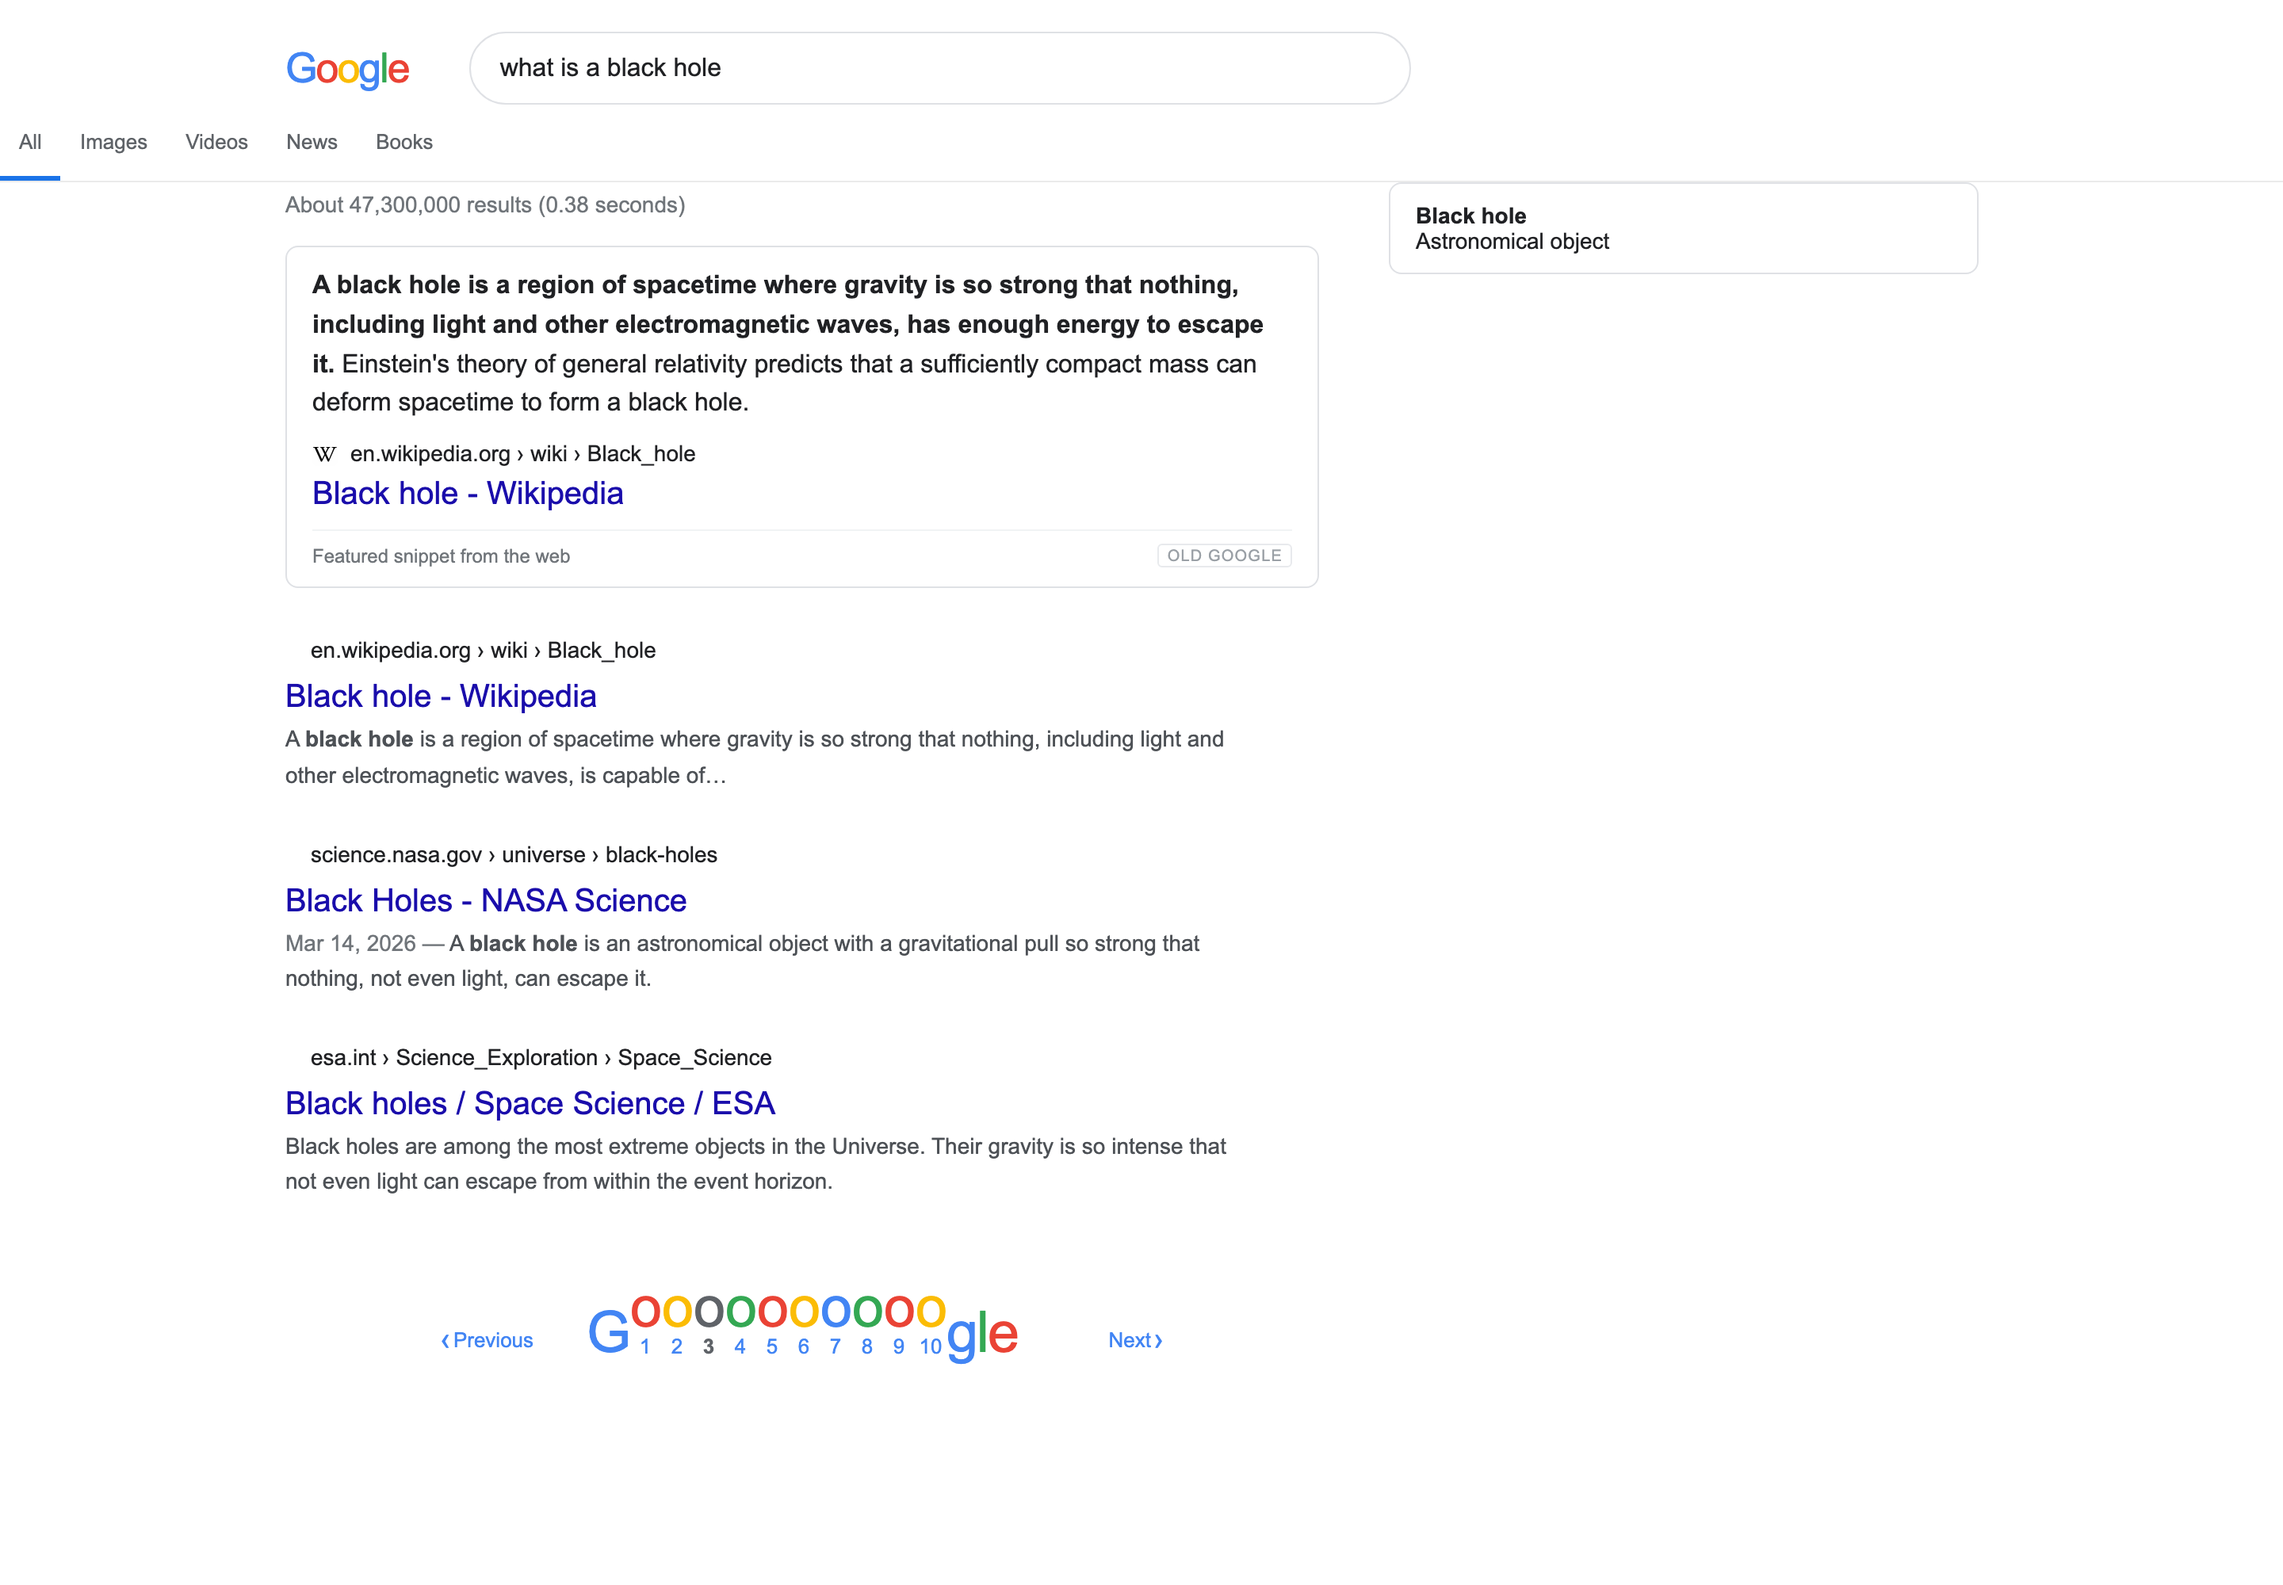
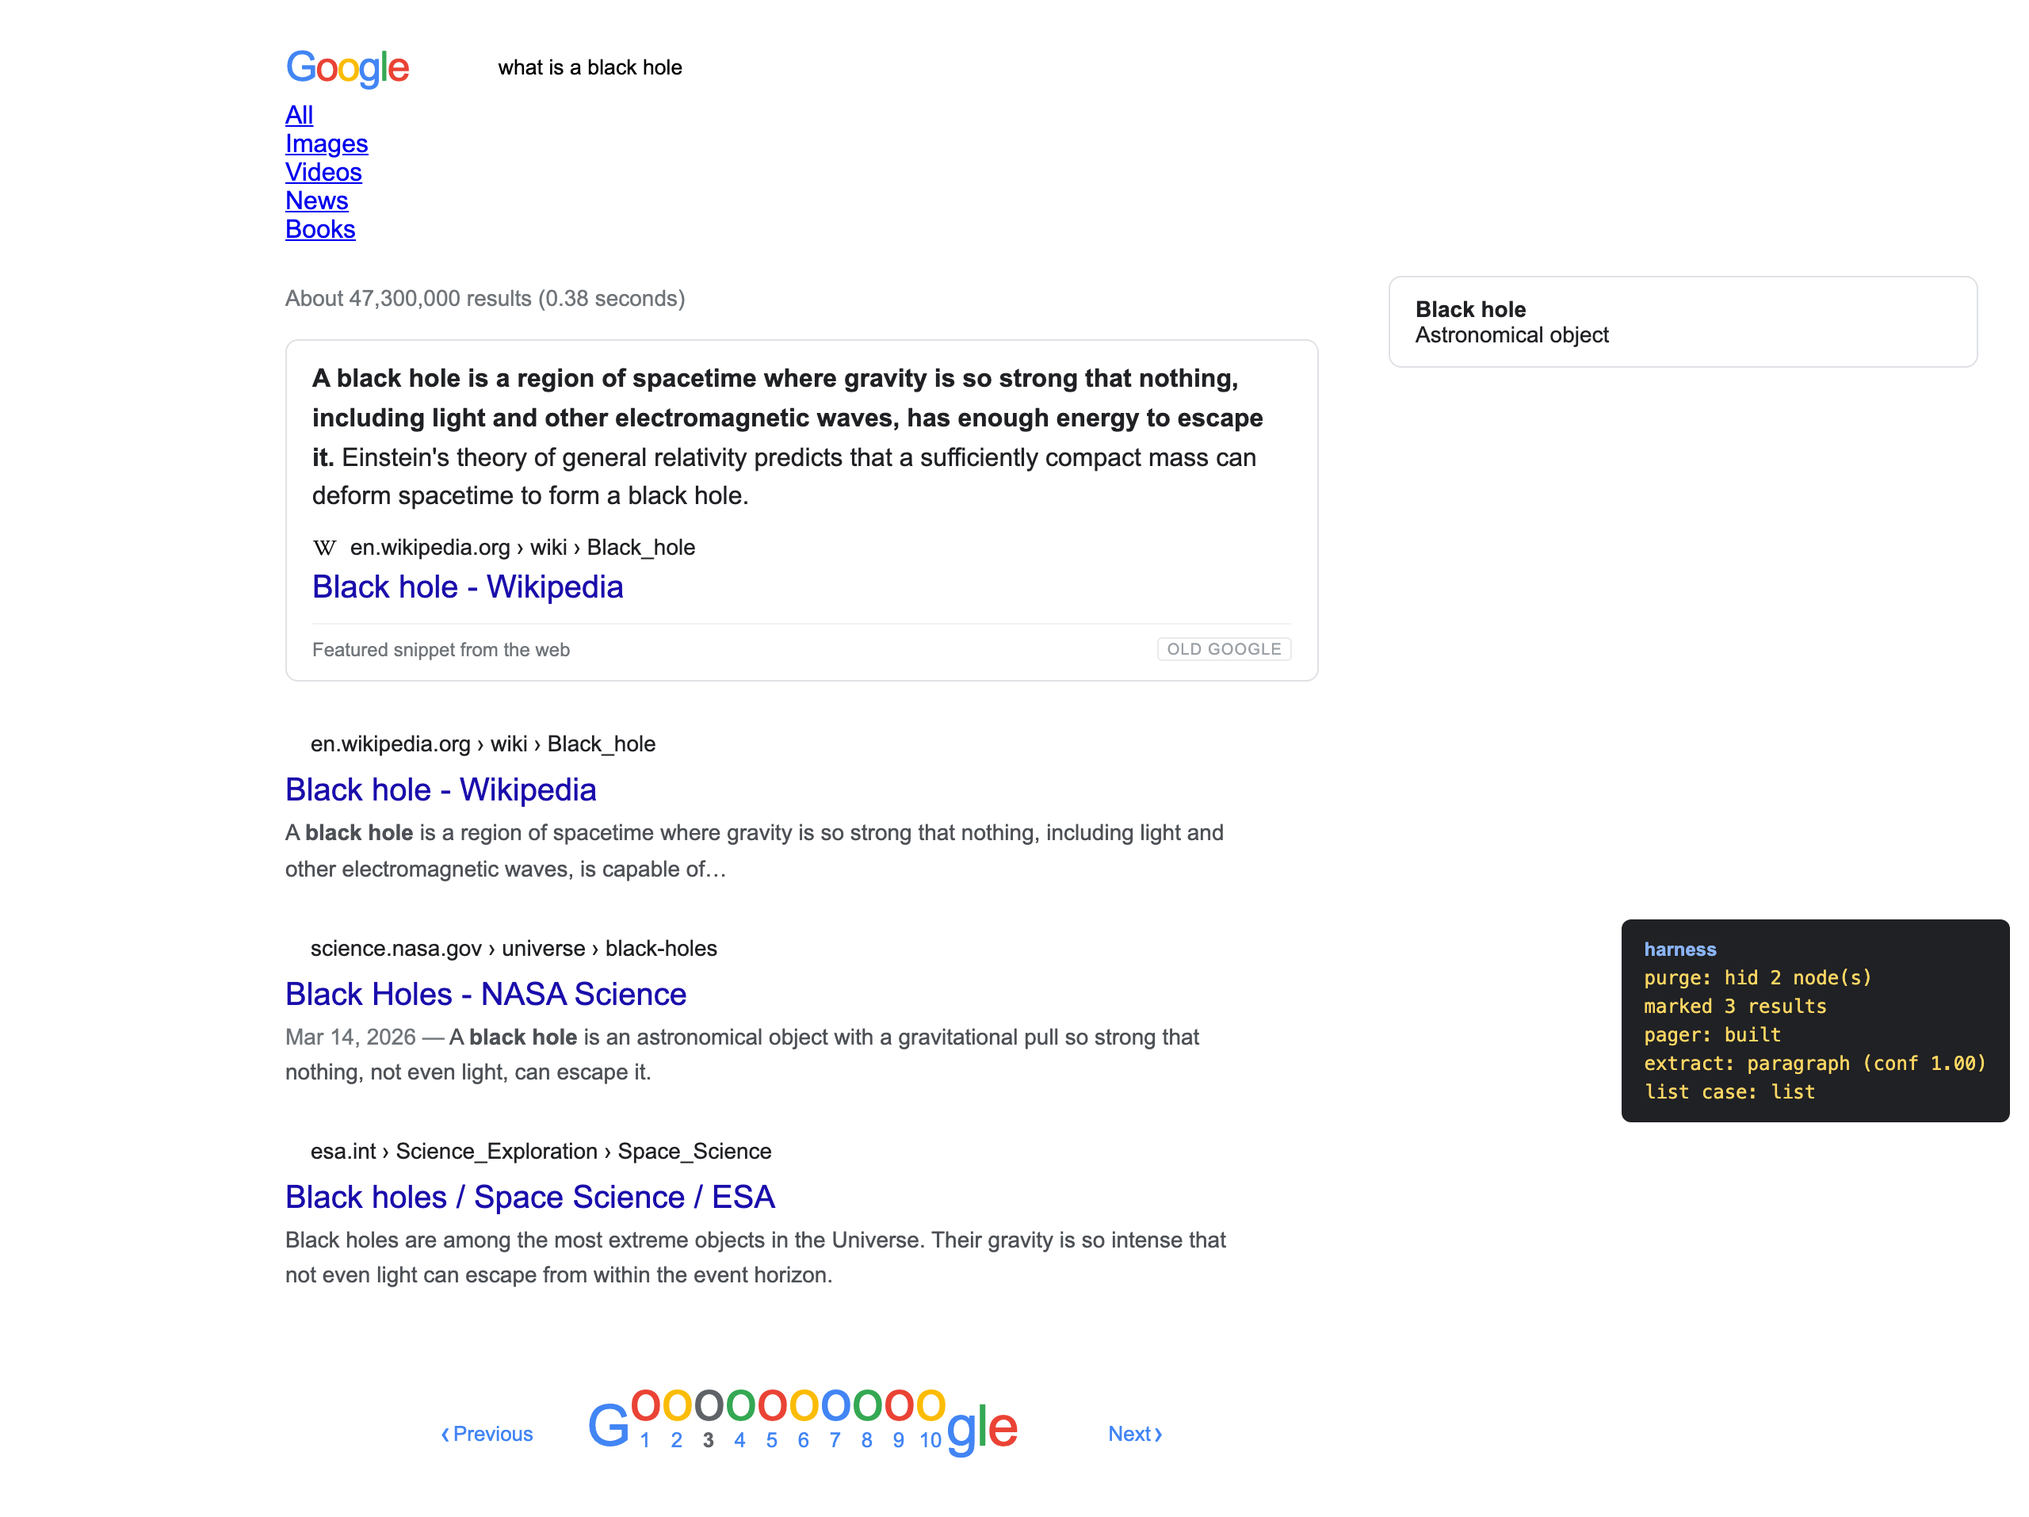
Put the 2020 gap back between the tab strip and the results column
Both columns had padding zeroed, so the featured snippet's top border sat
on the tab strip's rule and fused with it. Restore the 20px breath.

Claude-Session: https://claude.ai/code/session_01G4gCsRhNYY4fEnrpMSkSYN

diff --git a/src/content/theme-2020.css b/src/content/theme-2020.css
@@ -128,7 +128,9 @@ html.og-2020.og-web #center_col {
   max-width: 652px !important;
   min-width: 0 !important;
   margin: 0 0 0 var(--og-gutter, 180px) !important;
-  padding: 0 !important;
+  /* 2020 left a 20px breath between the tab strip's rule and the first result.
+     Without it the featured snippet's border fuses with that rule. */
+  padding: 20px 0 0 0 !important;
   float: left !important;
   border: 0 !important;
 }
@@ -143,7 +145,7 @@ html.og-2020.og-web #rhs {
   width: 372px !important;
   max-width: 372px !important;
   margin: 0 0 0 44px !important;
-  padding: 0 !important;
+  padding: 20px 0 0 0 !important;
 }
 
 html.og-2020.og-web #rhs > div.og-kp,
